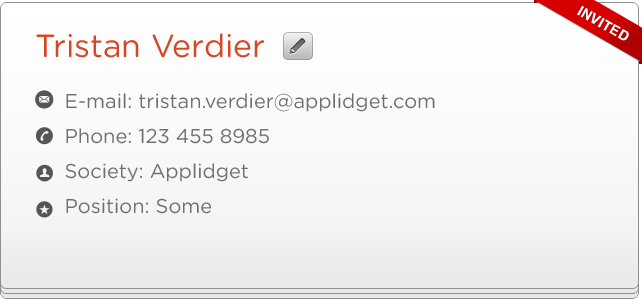
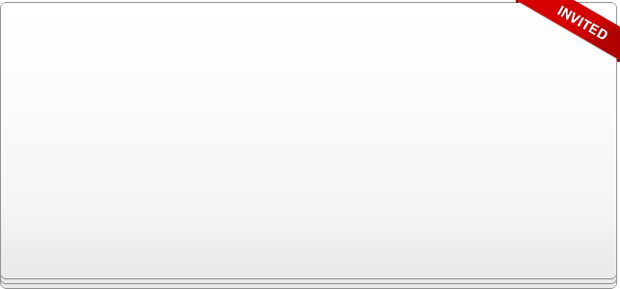
Business card done

diff --git a/public/stylesheets/application.css.scss b/public/stylesheets/application.css.scss
@@ -224,6 +224,10 @@ body {
     margin-top: 55px;
   }
 
+  .calendar {
+    margin-bottom: 20px;
+  }
+
   .info {
     display: inline-block;
     margin-bottom: 6px;
@@ -240,6 +244,52 @@ body {
     @include border-radius(4px);
     color: #579839;
     
+  }
+
+  .business-card {
+    background: url('/images/business-card.png') no-repeat top center;
+    background-size: contain;
+    height: 260px;
+    color: #707070;
+    padding: 30px 40px;
+    margin-bottom: 20px;
+
+    h3 {
+      color: #d64727;
+      font-size: 2em;
+      margin-bottom: 20px;
+    }
+
+    .icon-write {
+      background: url('/images/icon-write.png') no-repeat top left;
+      height: 30px;
+      width: 30px;
+      margin-left: 15px;
+    }
+
+    .card-info {
+      line-height: 21px;
+      display: inline-block;
+      height: 21px;
+      padding-left: 2em;
+      margin-bottom: 1em;
+    }
+
+    .email {
+      background: url('/images/list-icon-mail.png') no-repeat top left;
+    }
+
+    .phone {
+      background: url('/images/list-icon-phone.png') no-repeat top left;
+    }
+
+    .company {
+      background: url('/images/list-icon-company.png') no-repeat top left;
+    }
+
+    .position {
+      background: url('/images/list-icon-position.png') no-repeat top left;
+    }
   }
 
   .yes, .maybe {
@@ -322,6 +372,45 @@ body {
       .section-title, .section-description { font-size: 0.9em; }
     }
   }
+
+  #section-event-solutions {
+    .business-card {
+      height: 200px;
+      margin-bottom: 15px;
+      padding: 24px 30px;
+
+      h3 {
+        font-size: 1.5em;
+        margin-bottom: 18px;
+      }
+
+      .icon-write {
+        background-size: 21px 21px;
+        height: 21px;
+        margin-left: 10px;
+        width: 21px;
+      }
+
+      .card-info {
+        font-size: 0.9em;
+        height: auto;
+        line-height: 18px;
+        margin-bottom: 10px;
+        background-size: 17px 17px;
+      }
+    }
+
+    .info {
+      font-size: 1.2em;
+      height: 50px;
+      line-height: 50px;
+      margin-bottom: 4px;
+    }
+
+    .yes {
+      margin-bottom: -1px;
+    }
+  }
 }
 
 @media (max-width: 767px) {
@@ -352,6 +441,8 @@ body {
   }
 
   #section-technologies-description {
+    padding-bottom: 10px;
+
     [class*="span"] {
       min-height: inherit;
       margin-bottom: 10px;
@@ -363,7 +454,66 @@ body {
   #section-event-solutions {
     h1 {
       margin-top: 22px;
+      margin-bottom: 45px;
       text-align: center;
+    }
+
+    .business-card {
+      position: relative;
+      height: 180px;
+      margin-bottom: 10px;
+      padding: 25px 35px;
+      background-image: none;
+      border: 1px solid #909090;
+      @include border-radius(4px 4px 4px 4px);
+      background-color:#ffffff;
+      *background-color:#ffffff;
+      @include background-image(linear-gradient(color-stops(#ffffff, #e9e9e9)));
+      filter:progid:dximagetransform.microsoft.gradient(startColorstr='#ffffffff',endColorstr='#ffe9e9e9',GradientType=0);
+      filter:progid:dximagetransform.microsoft.gradient(enabled=false);
+      background-repeat:repeat-x;
+
+      h3 {
+        font-size: 1.4em;
+        margin-bottom: 15px;
+        padding-right: 22px;
+      }
+
+      .icon-write {
+        background-size: 19px 19px;
+        height: 19px;
+        margin-left: 10px;
+        width: 19px;
+      }
+
+      .card-info {
+        font-size: 0.8em;
+        height: auto;
+        line-height: 21px;
+        margin-bottom: 0.8em;
+      }
+    }
+
+    .business-card:before {
+      content: '';
+      display: block;
+      position: absolute;
+      background: url('/images/invited-flag.png') no-repeat top right;
+      right: -3px;
+      top: -3px;
+      bottom: 0;
+      left: 0;
+    }
+
+    .info {
+      font-size: 1.2em;
+      height: 50px;
+      line-height: 50px;
+      margin-bottom: 4px;
+    }
+
+    .yes {
+      margin-bottom: -1px;
     }
   }
 }
@@ -383,7 +533,11 @@ body {
     }
   }
 
-  #section-stickers h1, #section-why-choose, #section-technologies, #section-technologies-description {
+  #section-stickers h1, 
+  #section-why-choose, 
+  #section-technologies, 
+  #section-technologies-description,
+  #section-event-solutions {
     padding-left: 20px;
     padding-right: 20px;
   }
@@ -397,6 +551,12 @@ body {
   #section-technologies-description {
     .container {
       padding-top: 10px;
+    }
+  }
+
+  #section-event-solutions {
+    .business-card {
+      padding: 20px;
     }
   }
 }
